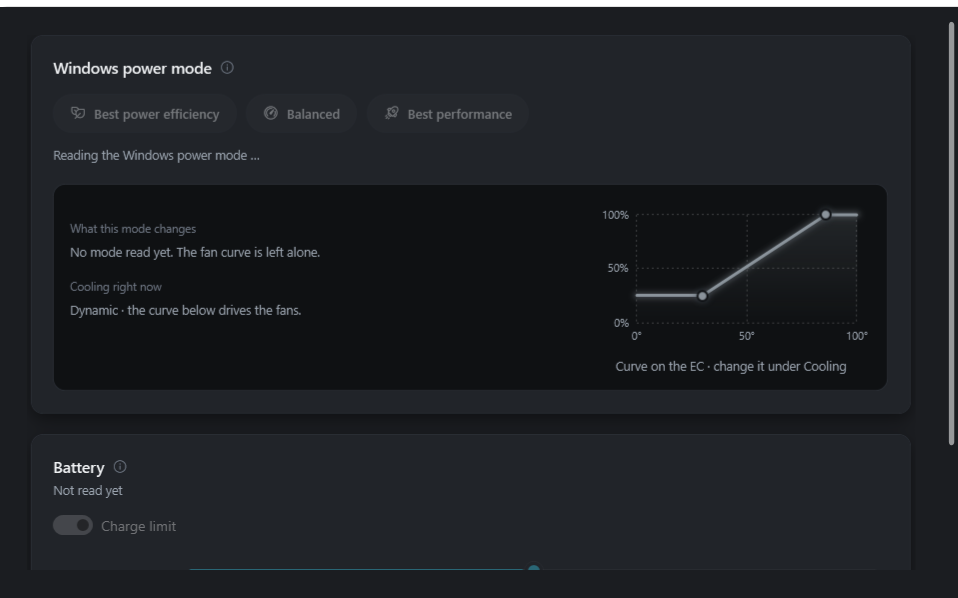
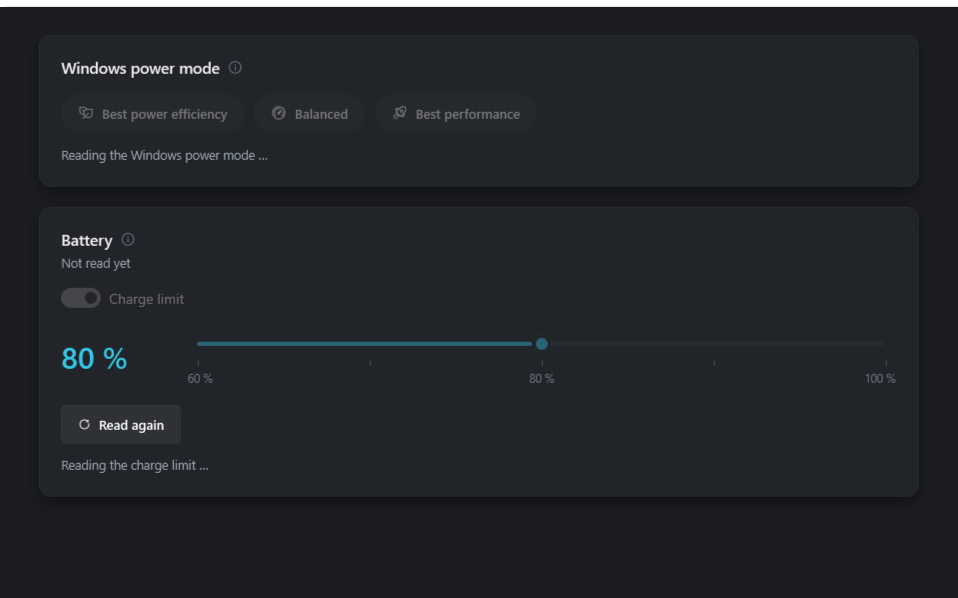
Put the power-mode explanation behind its info dot
It was a panel taking a third of the page: two headings, two sentences and a
second copy of the fan curve. The curve belongs on the Cooling page where it
can actually be edited, the cooling state is already on the dashboard tile,
and what was left did not earn that much room. Behind the "i" it costs none
and is still one hover away.

Also adds the power scheme writer the battery saver needs. Probed on this
machine: duplicating the active plan, writing the processor cap and the
display brightness into the copy, reading both back, and confirming the
user's own plan was untouched - then deleting the copy again.

Every write is read back, because PowerWriteDCValueIndex reports success for
a setting the scheme does not actually expose, and the only way to tell that
from a write that landed is to ask again.

diff --git a/src/AorusControl.App/MainWindow.xaml b/src/AorusControl.App/MainWindow.xaml
@@ -763,7 +763,7 @@
                                         <StackPanel Orientation="Horizontal">
                                             <TextBlock Text="{loc:T Pwr_WindowsMode}" Style="{StaticResource CardTitle}" />
                                             <ui:SymbolIcon Style="{StaticResource InfoDot}"
-                                                           ToolTip="{Binding Windows.PowerModeScope}" />
+                                                           ToolTip="{Binding Windows.PowerModeTooltip}" />
                                         </StackPanel>
                                     </StackPanel>
                                 </Grid>
@@ -786,31 +786,6 @@
                                 </WrapPanel>
                                 <TextBlock Text="{Binding Windows.PowerStatus}" Style="{StaticResource StatusText}" />
 
-                                <!-- What changing the mode really does. Vendor tools tend to imply a
-                                     performance mode also drives the fans; on this laptop it does not,
-                                     and showing the curve that IS in force next to it is the honest
-                                     answer to "what did I just change?". -->
-                                <Border Style="{StaticResource InnerPanel}" Margin="0,20,0,0">
-                                    <Grid>
-                                        <Grid.ColumnDefinitions>
-                                            <ColumnDefinition Width="*" MinWidth="240" />
-                                            <ColumnDefinition Width="Auto" />
-                                        </Grid.ColumnDefinitions>
-                                        <StackPanel Grid.Column="0" Margin="0,0,18,0">
-                                            <TextBlock Text="{loc:T Pwr_WhatItChanges}" Style="{StaticResource SubLabel}" />
-                                            <TextBlock Style="{StaticResource Hint}" Margin="0,8,0,0"
-                                                       Text="{Binding Windows.PowerModeEffect}" TextWrapping="Wrap" />
-                                            <TextBlock Style="{StaticResource SubLabel}" Margin="0,18,0,0" Text="{loc:T Pwr_CoolingNow}" />
-                                            <TextBlock Style="{StaticResource Hint}" Margin="0,8,0,0"
-                                                       Text="{Binding Cooling.Summary}" TextWrapping="Wrap" />
-                                        </StackPanel>
-                                        <StackPanel Grid.Column="1" MinWidth="280">
-                                            <ctrl:FanCurveChart Rows="{Binding Cooling.CurveRows}" Height="150" />
-                                            <TextBlock Style="{StaticResource Hint}" Margin="0,6,0,0" HorizontalAlignment="Center"
-                                                       Text="{loc:T Pwr_CurveOnEc}" />
-                                        </StackPanel>
-                                    </Grid>
-                                </Border>
                             </StackPanel>
                         </Border>
 

diff --git a/src/AorusControl.Core/Features/PowerProfiles/PowerSchemeWriter.cs b/src/AorusControl.Core/Features/PowerProfiles/PowerSchemeWriter.cs
@@ -1,0 +1,137 @@
+using System.Runtime.InteropServices;
+
+namespace AorusControl.Core.Features.PowerProfiles;
+
+/// <summary>One setting inside a power scheme, named the way Windows names it.</summary>
+public sealed record PowerSetting(Guid Subgroup, Guid Setting)
+{
+    /// <summary>Maximum processor state, in per cent.</summary>
+    public static readonly PowerSetting MaximumProcessorState =
+        new(new("54533251-82be-4824-96c1-47b60b740d00"), new("bc5038f7-23e0-4960-96da-33abaf5935ec"));
+
+    /// <summary>Display brightness, in per cent.</summary>
+    public static readonly PowerSetting DisplayBrightness =
+        new(new("7516b95f-f776-4464-8c53-06167f40cc99"), new("aded5e82-b909-4619-9949-f5d71dac0bcb"));
+}
+
+/// <summary>
+/// Windows power schemes: duplicate one, write into the copy, switch to it, switch back.
+///
+/// Gigabyte's own battery saver wrote its two values straight into the user's Balanced plan
+/// and kept the old ones in the registry, which means a crash between setting and restoring
+/// leaves the machine capped with nobody to say why. This works on a copy instead. The user's
+/// plans are never touched, and the worst a crash can leave behind is an extra entry in a
+/// list that does nothing unless it is active.
+///
+/// Every write is read back, like everywhere else in this project: PowerWriteDCValueIndex
+/// returns success for a setting the current scheme does not actually expose.
+/// </summary>
+public sealed class PowerSchemeWriter
+{
+    private const uint Ok = 0;
+
+    /// <summary>The scheme that is in force right now.</summary>
+    public static Guid Active()
+    {
+        IntPtr pointer = IntPtr.Zero;
+        try
+        {
+            uint result = PowerGetActiveScheme(IntPtr.Zero, ref pointer);
+            if (result != Ok || pointer == IntPtr.Zero)
+                throw new InvalidOperationException($"Der aktive Energiesparplan war nicht lesbar (Code {result}).");
+            return Marshal.PtrToStructure<Guid>(pointer);
+        }
+        finally { if (pointer != IntPtr.Zero) LocalFree(pointer); }
+    }
+
+    /// <summary>Copies a scheme and gives the copy a name.</summary>
+    public static Guid Duplicate(Guid source, string name, string description)
+    {
+        ArgumentException.ThrowIfNullOrWhiteSpace(name);
+        IntPtr copy = IntPtr.Zero;
+        try
+        {
+            uint result = PowerDuplicateScheme(IntPtr.Zero, ref source, ref copy);
+            if (result != Ok || copy == IntPtr.Zero)
+                throw new InvalidOperationException($"Der Energiesparplan liess sich nicht kopieren (Code {result}).");
+            Guid created = Marshal.PtrToStructure<Guid>(copy);
+            // Both are cosmetic, and both are the only thing the user will see of this in
+            // Windows' own list - so a failure here is not worth undoing the copy over.
+            PowerWriteFriendlyName(IntPtr.Zero, ref created, IntPtr.Zero, IntPtr.Zero, name, (uint)((name.Length + 1) * 2));
+            PowerWriteDescription(IntPtr.Zero, ref created, IntPtr.Zero, IntPtr.Zero, description, (uint)((description.Length + 1) * 2));
+            return created;
+        }
+        finally { if (copy != IntPtr.Zero) LocalFree(copy); }
+    }
+
+    public static void Delete(Guid scheme)
+    {
+        uint result = PowerDeleteScheme(IntPtr.Zero, ref scheme);
+        if (result != Ok) throw new InvalidOperationException($"Der Energiesparplan liess sich nicht löschen (Code {result}).");
+    }
+
+    public static void Activate(Guid scheme)
+    {
+        uint result = PowerSetActiveScheme(IntPtr.Zero, ref scheme);
+        if (result != Ok) throw new InvalidOperationException($"Der Energiesparplan liess sich nicht aktivieren (Code {result}).");
+    }
+
+    /// <summary>Reads one setting's battery-side value.</summary>
+    public static uint ReadOnBattery(Guid scheme, PowerSetting setting)
+    {
+        Guid subgroup = setting.Subgroup, item = setting.Setting;
+        uint value = 0;
+        uint result = PowerReadDCValueIndex(IntPtr.Zero, ref scheme, ref subgroup, ref item, ref value);
+        if (result != Ok) throw new InvalidOperationException($"Der Wert war nicht lesbar (Code {result}).");
+        return value;
+    }
+
+    /// <summary>
+    /// Writes one setting's battery-side value and reads it back.
+    ///
+    /// The readback is the point. A scheme that does not expose a setting - a hidden one, or
+    /// one the platform has no say over - takes the write and reports success, and the only
+    /// way to tell that apart from a write that landed is to ask again.
+    /// </summary>
+    public static void WriteOnBattery(Guid scheme, PowerSetting setting, uint value)
+    {
+        Guid subgroup = setting.Subgroup, item = setting.Setting;
+        uint result = PowerWriteDCValueIndex(IntPtr.Zero, ref scheme, ref subgroup, ref item, value);
+        if (result != Ok) throw new InvalidOperationException($"Der Wert liess sich nicht schreiben (Code {result}).");
+
+        uint written = ReadOnBattery(scheme, setting);
+        if (written != value)
+            throw new InvalidOperationException($"Rücklesen ergab {written} statt {value}; der Plan hat den Wert nicht übernommen.");
+    }
+
+    [DllImport("powrprof.dll")]
+    private static extern uint PowerGetActiveScheme(IntPtr userRootPowerKey, ref IntPtr activePolicyGuid);
+
+    [DllImport("powrprof.dll")]
+    private static extern uint PowerSetActiveScheme(IntPtr userRootPowerKey, ref Guid schemeGuid);
+
+    [DllImport("powrprof.dll")]
+    private static extern uint PowerDuplicateScheme(IntPtr rootPowerKey, ref Guid sourceSchemeGuid, ref IntPtr destinationSchemeGuid);
+
+    [DllImport("powrprof.dll")]
+    private static extern uint PowerDeleteScheme(IntPtr rootPowerKey, ref Guid schemeGuid);
+
+    [DllImport("powrprof.dll", CharSet = CharSet.Unicode)]
+    private static extern uint PowerWriteFriendlyName(IntPtr rootPowerKey, ref Guid schemeGuid,
+        IntPtr subgroupOfPowerSettingsGuid, IntPtr powerSettingGuid, string buffer, uint bufferSize);
+
+    [DllImport("powrprof.dll", CharSet = CharSet.Unicode)]
+    private static extern uint PowerWriteDescription(IntPtr rootPowerKey, ref Guid schemeGuid,
+        IntPtr subgroupOfPowerSettingsGuid, IntPtr powerSettingGuid, string buffer, uint bufferSize);
+
+    [DllImport("powrprof.dll")]
+    private static extern uint PowerWriteDCValueIndex(IntPtr rootPowerKey, ref Guid schemeGuid,
+        ref Guid subgroupOfPowerSettingsGuid, ref Guid powerSettingGuid, uint dcValueIndex);
+
+    [DllImport("powrprof.dll")]
+    private static extern uint PowerReadDCValueIndex(IntPtr rootPowerKey, ref Guid schemeGuid,
+        ref Guid subgroupOfPowerSettingsGuid, ref Guid powerSettingGuid, ref uint dcValueIndex);
+
+    [DllImport("kernel32.dll")]
+    private static extern IntPtr LocalFree(IntPtr memory);
+}

diff --git a/src/AorusControl.App/Localization/GermanStrings.cs b/src/AorusControl.App/Localization/GermanStrings.cs
@@ -92,12 +92,10 @@ internal static class GermanStrings
             ["Picker_FindProgram"] = "Programm suchen",
             ["Picker_SearchHint"] = "Name oder Pfad …",
             ["Picker_RecentlyUsed"] = "Zuletzt verwendet",
-            ["Pwr_CoolingNow"] = "Kühlung gerade",
             ["Pwr_CurveOnEc"] = "Kurve auf der EC · änderbar unter Kühlung",
             ["Pwr_ModeBalanced"] = "Ausbalanciert",
             ["Pwr_ModeBestPerformance"] = "Beste Leistung",
             ["Pwr_ModeEfficiency"] = "Energieeffizienz",
-            ["Pwr_WhatItChanges"] = "Was dieser Modus verändert",
             ["Pwr_WindowsMode"] = "Windows-Leistungsmodus",
             ["Tip_Autostart"] = "Läuft über eine geplante Aufgabe statt über den Registry-Autostart, damit beim Anmelden kein Rechte-Dialog erscheint. Die App startet dann in den Infobereich, ohne Fenster; über das Symbol dort ist sie jederzeit da.",
             ["Tip_ChargeLimit"] = "Aus lädt das Gerät so, wie die Firmware es vorsieht. Ein hält bei der eingestellten Marke an, was den Akku schont, wenn der Laptop meist am Netz hängt. Der Regler übernimmt sich selbst, kurz nachdem er zur Ruhe kommt; das Ergebnis wird zurückgelesen und darunter bestätigt.",

diff --git a/src/AorusControl.App/Localization/EnglishStrings.cs b/src/AorusControl.App/Localization/EnglishStrings.cs
@@ -92,12 +92,10 @@ internal static class EnglishStrings
             ["Picker_FindProgram"] = "Find a program",
             ["Picker_SearchHint"] = "Name or path …",
             ["Picker_RecentlyUsed"] = "Recently used",
-            ["Pwr_CoolingNow"] = "Cooling right now",
             ["Pwr_CurveOnEc"] = "Curve on the EC · change it under Cooling",
             ["Pwr_ModeBalanced"] = "Balanced",
             ["Pwr_ModeBestPerformance"] = "Best performance",
             ["Pwr_ModeEfficiency"] = "Best power efficiency",
-            ["Pwr_WhatItChanges"] = "What this mode changes",
             ["Pwr_WindowsMode"] = "Windows power mode",
             ["Tip_Autostart"] = "Runs as a scheduled task rather than a registry autostart entry, so logging in does not bring up a permission prompt. It starts into the notification area without a window, and Windows restarts it if it ever crashes.",
             ["Tip_ChargeLimit"] = "Off charges the machine the way the firmware intends. On stops at the mark you set, which spares the pack when the laptop mostly runs on mains. The slider applies itself shortly after it comes to rest; the result is read back and confirmed below.",

diff --git a/src/AorusControl.App/Features/Platform/WindowsSettingsViewModel.cs b/src/AorusControl.App/Features/Platform/WindowsSettingsViewModel.cs
@@ -90,6 +90,17 @@ public sealed class WindowsSettingsViewModel : ObservableObject, IFeatureModule
     /// under test: the promise that the app never overstates where a mode was verified is
     /// exactly the kind of sentence that quietly disappears in a layout change.
     /// </summary>
+    /// <summary>
+    /// Everything the card has to say about the mode, on its info dot.
+    ///
+    /// It used to be a panel taking a third of the page: two headings, two sentences and a
+    /// copy of the fan curve. The curve is on the Cooling page where it can be edited, the
+    /// cooling state is on the dashboard tile, and what was left did not earn that much
+    /// space. Behind the "i" it costs none and is still one hover away.
+    /// </summary>
+    public string PowerModeTooltip => string.Join(Environment.NewLine + Environment.NewLine,
+        PowerModeEffect, PowerModeScope, Strings.Current["Pwr_CurveOnEc"]);
+
     public string PowerModeScope =>
         Strings.Current["Win_ModeScope"];
 
